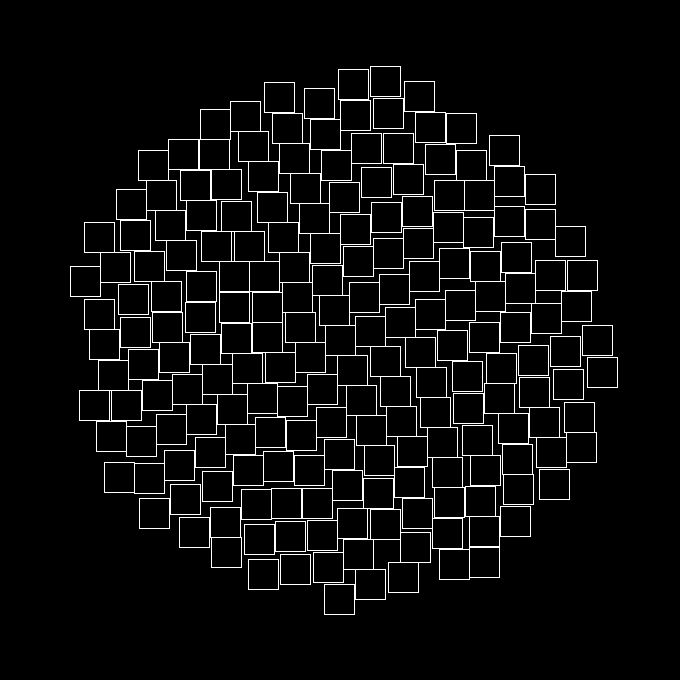
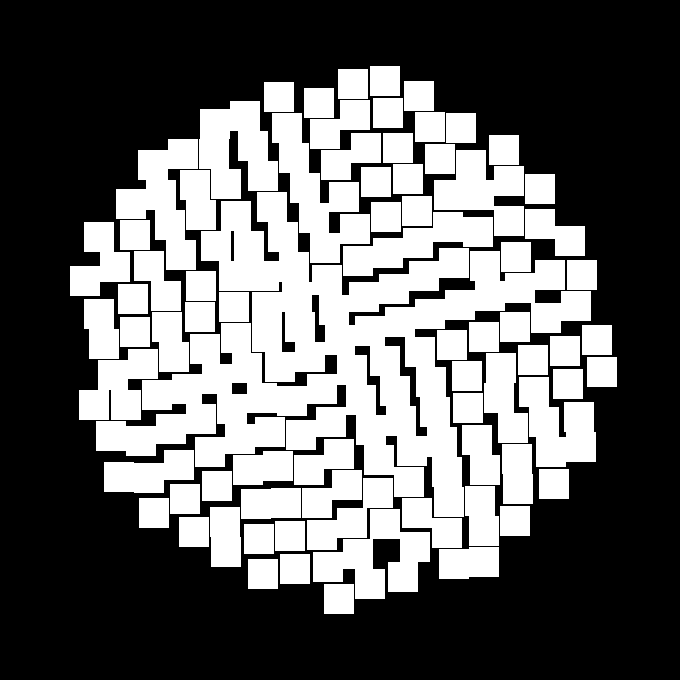
Поменял раскрасску на прямоугольники сплошной заливки

diff --git a/cs/TagsCloudVisualization/Drawer.cs b/cs/TagsCloudVisualization/Drawer.cs
@@ -9,7 +9,12 @@ namespace TagsCloudVisualization
             var image = new Bitmap(centerPoint.X * 2, centerPoint.Y * 2);
             var gr = Graphics.FromImage(image);
             gr.Clear(Color.Black);
-            gr.DrawRectangles(new Pen(Color.White), rectangles.ToArray());
+            using (var brush = new SolidBrush(Color.White))
+            {
+                foreach (var rectangle in rectangles)
+                    gr.FillRectangle(brush, rectangle);
+            }
+
 
             return image;
         }
